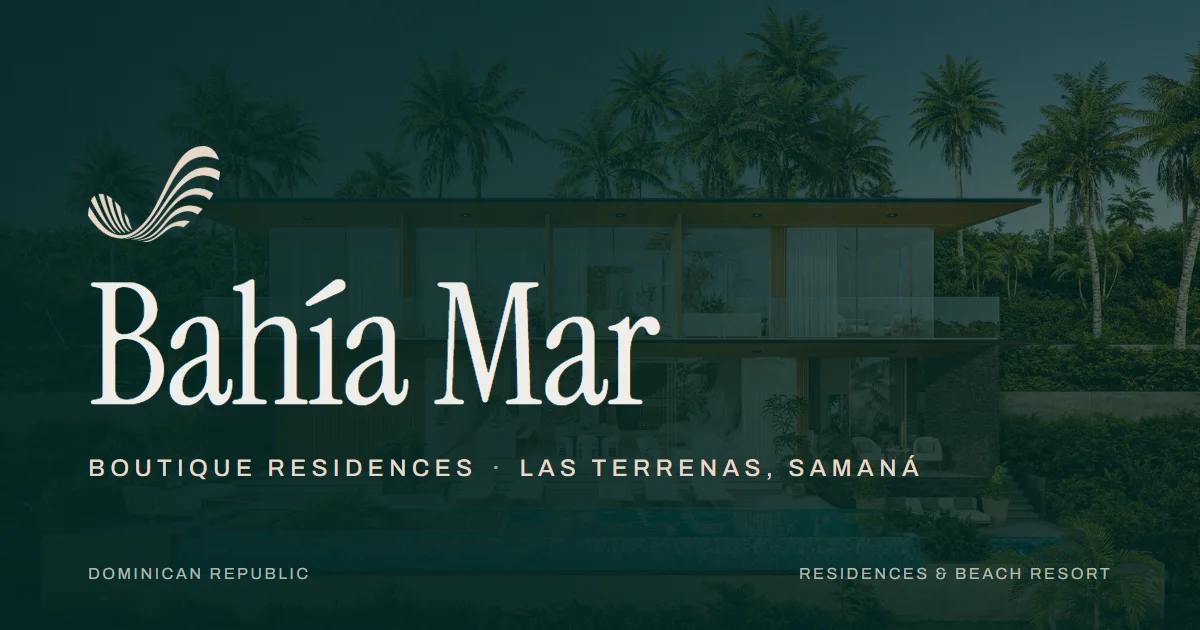
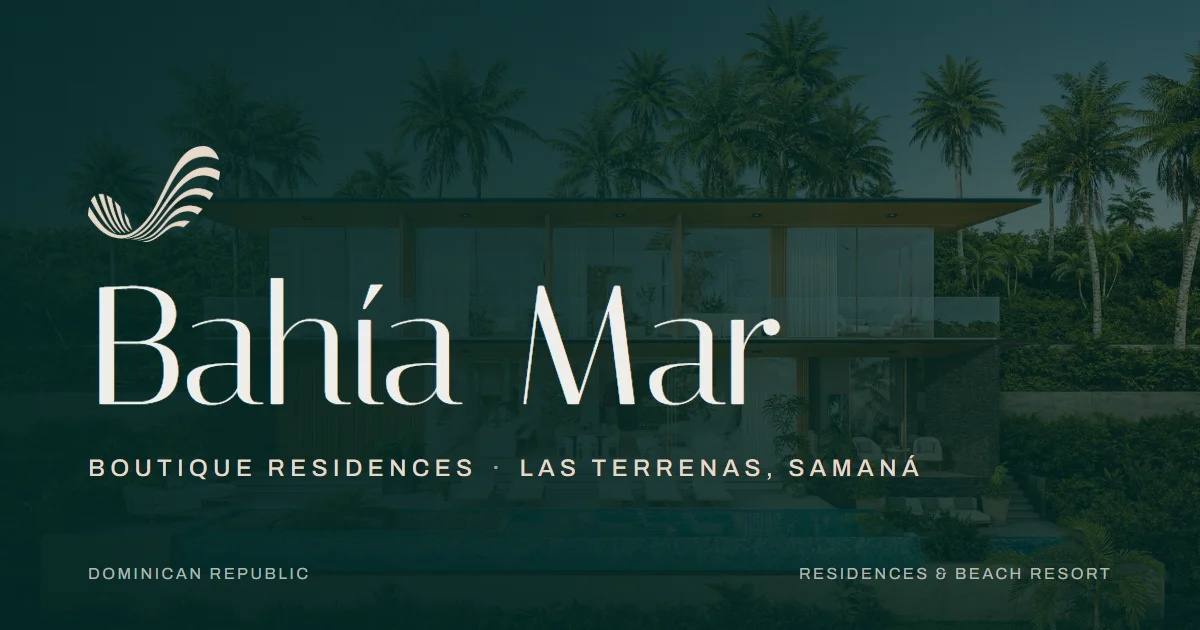
feat(tipografía): Italiana como fuente de titulares, la del brochure
El brochure de Bahía Mar titula con una romana sin serifas, de astas
acampanadas y contraste alto («Verdadero lujo»). Comparadas nueve
libres letra a letra, Italiana comparte las formas (V, a, d, e, r, o y
el gancho de la j); Bellefair lleva remates y el resto son más anchas
y sin contraste. Sustituye a Instrument Serif en app/fonts.ts.

Es un 28 % más ancha que Instrument, así que, medido con
scratchpad/fit-titulares.mjs a 1440 y 390: h1/h2/h3 bajan un 15 % en
bloque (el hero se queda a tamaño completo), pilares a 0,68, «The
Samaná Peninsula» a 0,72 / 76 unidades en móvil, teléfono del pie a
0,74 / 0,58, pestañas de amenidades a 0,94, arco de móvil a 0,76 y
«Similar options» a 0,78. Imagen OpenGraph regenerada con Italiana.

Verificado: tsc limpio; 6 rutas × 2 anchos con 0 errores, 0 4xx, 0
imágenes rotas, 0 desborde; ningún titular parte palabras.

Changed region(s): [[0.0617, 0.4222, 0.6475, 0.6635]]

diff --git a/styles/theme.css b/styles/theme.css
@@ -15,7 +15,9 @@
  *  sustituyen por tres familias con licencia SIL OFL, que se pueden
  *  desplegar en cualquier dominio:
  *
- *    Titulares   Instrument Serif  (sustituye a Ambroise François)
+ *    Titulares   Italiana          (sustituye a Ambroise François; el
+ *                                   brochure de Bahía Mar titula con una
+ *                                   romana acampanada sin serifas)
  *    Texto       Archivo           (sustituye a Maison Neue Extended)
  *    Floritura   Pinyon Script     (sustituye a Sloop Script)
  *
@@ -57,26 +59,69 @@ html {
 /* --------------------------------------------------------
  *  Ajustes por el ancho de la tipografía sustituida
  *
- *  Instrument Serif es ~37% más ancha que Ambroise François,
- *  la didona comprimida del original. Las cajas del CSS
- *  heredado están dimensionadas para aquélla, así que algunos
- *  textos que allí entraban en una línea aquí se parten.
+ *  Las cajas del CSS heredado están dimensionadas para Ambroise
+ *  François, la didona COMPRIMIDA de ERA. Instrument Serif (la
+ *  primera sustituta) era un 37% más ancha y se corrigió caso a
+ *  caso. Italiana, la del brochure de Bahía Mar, es otro 28% más
+ *  ancha que Instrument: con ella ya no eran dos titulares sino
+ *  la mayoría, todos pidiendo entre ×0,75 y ×0,88 (medido con
+ *  scratchpad/fit-titulares.mjs a 1440 y 390), así que h1/h2/h3
+ *  bajan un 15% en bloque y lo que sigue sin caber se ajusta
+ *  donde ocurre. h4/h5 son párrafos-titular que pueden partir y
+ *  no se tocan.
  *
- *  Cada caso se corrige donde ocurre, no con un cambio global
- *  de escala: bajar el h1 en todo el sitio encogería también
- *  el hero, que entra perfectamente.
+ *  El titular del hero se queda a tamaño completo: «BAHÍA MAR»
+ *  entra de sobra y es la pieza grande de la página.
  * -------------------------------------------------------- */
+.h1 { font-size: calc(var(--_fonts---h1--size) * 0.85); }
+.h2 { font-size: calc(var(--_fonts---h2--size) * 0.85); }
+.h3 { font-size: calc(var(--_fonts---h3--size) * 0.85); }
+.hero-s_logo .h1 { font-size: var(--_fonts---h1--size); }
 
 /*
- * Los tres titulares del bloque de pilares («Real-Life Location»,
- * «Built to stay», «Boutique concept») deben ir en UNA línea.
+ * Los tres titulares del bloque de pilares («Facing Samaná Bay», «True
+ * eco-luxury», «A boutique resort») deben ir en UNA línea.
  *
- * Medido: el más largo necesita 1648px en una línea y su caja mide
- * 1429 — hace falta un 0,867 del cuerpo. Se aplica 0,84 para dejar
- * margen si cambian los textos.
+ * Medido con Italiana a 1440: el más largo necesita 1304px al 0,84
+ * anterior y su caja mide 1080 → 0,84 × 0,83 = 0,70. Se aplica 0,68
+ * para dejar margen si cambian los textos. (Con Instrument bastaba 0,84.)
  */
 .section.z-2 .h1 {
-  font-size: calc(var(--_fonts---h1--size) * 0.84);
+  font-size: calc(var(--_fonts---h1--size) * 0.68);
+}
+
+/*
+ * Teléfono del pie («+1 (809) 000-0000», h2): 1035px naturales en una
+ * caja de 806 a 1440 (×0,78) y 578 en 345 a 390 (×0,60). Un número de
+ * teléfono partido en dos líneas no se lee: se baja lo justo.
+ */
+.contact-cms .h2 { font-size: calc(var(--_fonts---h2--size) * 0.74); }
+
+/*
+ * Pestañas de amenidades (Entrance, Beach & pools, Thermal waters…):
+ * lista apilada que sólo cuadra a una línea por etiqueta. «Thermal
+ * waters» mide 267px en 259 (×0,97).
+ */
+.amen-tab .h5 { font-size: calc(var(--_fonts---h5--size) * 0.94); }
+
+/*
+ * «The Samaná Peninsula» (h1 de Location): «PENINSULA» mide 896px en
+ * una caja de 670 a 1440 (×0,75, y ya lleva el 0,85 global: 0,85×0,88).
+ */
+.loc-intro-s_title .h1 { font-size: calc(var(--_fonts---h1--size) * 0.72); }
+
+/*
+ * «Similar options» (arco de la ficha de villa, h3): 552px en una caja
+ * de 533 a 1440 (×0,97); a dos líneas rompe la composición del arco.
+ */
+.other-title-s_title .h3 { font-size: calc(var(--_fonts---h3--size) * 0.78); }
+
+@media screen and (max-width: 991px) {
+  .contact-cms .h2 { font-size: calc(var(--_fonts---h2--size) * 0.58); }
+  /* Arco «Three reasons for Bahía Mar» (texto SVG sobre un semicírculo):
+     con Italiana la frase se salía por los dos lados del arco de móvil
+     (390-home-step-02); a 0,76 vuelve a caber en el cuarto superior. */
+  .benefits-intro-s_title_svg.b-mob .h4 { font-size: calc(var(--_fonts---h4--size) * 0.76); }
 }
 
 /*
@@ -118,7 +163,7 @@ html {
 body {
   --_fonts---font-display:
     var(--font-display),
-    "Bodoni MT", "Didot", "Times New Roman", serif;
+    "Optima", "Candara", "Gill Sans", sans-serif;
 
   --_fonts---font-body:
     var(--font-body),
@@ -305,8 +350,8 @@ body {
  *  de móvil la etiqueta ocupa las columnas 1-3 y el titular las 2-5,
  *  solapados, y con «Dominican Republic» y «Peninsula» ambos se parten
  *  a media palabra (390-home-step-05). La etiqueta pasa a su propia
- *  fila a ancho completo y el titular baja de 96 a 80 unidades, con lo
- *  que «PENINSULA» entra en una línea a 390px.
+ *  fila a ancho completo y el titular baja de 96 a 76 unidades, con lo
+ *  que «PENINSULA» entra en una línea a 390px (medido con Italiana).
  * -------------------------------------------------------- */
 @media screen and (max-width: 767px) {
   .loc-intro-s_cap { grid-area: 1 / 1 / 2 / -1; align-self: start; }
@@ -314,7 +359,7 @@ body {
      390px: se reduce a .5em, con lo que cabe en una línea sin recortarse. */
   .loc-intro-s_cap .c1 { white-space: nowrap; letter-spacing: .5em; }
   .loc-intro-s_title { grid-area: 2 / 1 / 3 / -1; }
-  .loc-intro-s_title .h1 { font-size: calc(80rem / var(--_special-units---scale-ratio)); }
+  .loc-intro-s_title .h1 { font-size: calc(76rem / var(--_special-units---scale-ratio)); } /* Italiana: «PENINSULA» 347px en 345 a 80 unidades */
   /* El resto de la columna baja una fila: foto, texto y botón. */
   .loc-intro-s_img { grid-area: 3 / 2 / 4 / 5; }
   .loc-intro-s_desc { grid-area: 4 / 2 / 5 / 5; }

diff --git a/app/fonts.ts b/app/fonts.ts
@@ -5,7 +5,7 @@
  *  desplegar en cualquier dominio sin pagar licencia web ni contar
  *  pageviews. Sustituyen a las del sitio original:
  *
- *    ambroise-francois-std (Adobe)  ->  Instrument Serif
+ *    ambroise-francois-std (Adobe)  ->  Italiana  (antes Instrument Serif)
  *    Maison Neue Extended (Milieu)  ->  Archivo
  *    sloop-script-three (Adobe)     ->  Pinyon Script
  *
@@ -15,23 +15,22 @@
  *  ajustadas, que es lo que evita el salto de maquetación al cargar.
  * ============================================================ */
 
-import { Archivo, Instrument_Serif, Pinyon_Script } from 'next/font/google';
+import { Archivo, Italiana, Pinyon_Script } from 'next/font/google';
 
 /**
- * Titulares. La elección se hizo midiendo, no a ojo: Ambroise François
- * es el corte COMPRIMIDO de su superfamilia, y casi ninguna didona
- * libre se le acerca. Con el h1 a 192px, "ERA RESIDENCE" ocupaba
- * 749px con la original; en Bodoni Moda se iba a 1499px (el doble) y
- * ya no cabía en el ancho disponible (1344px a 1440 de viewport).
- * Instrument Serif se queda en 1029px, que sí entra en una línea.
+ * Titulares. Bahía Mar no hereda la didona de ERA: el brochure del cliente
+ * titula con una romana sin serifas, de astas acampanadas y contraste alto
+ * («Verdadero lujo», pág. 9). Italiana es la libre que comparte esas formas
+ * (comparada letra a letra con el brochure: V, a, d, e, r, o y el gancho de
+ * la j coinciden; sólo es un punto más fina). Un solo peso y sin cursiva,
+ * que el sitio no usa en los titulares.
  *
- * Estática y de un solo peso, igual que el kit original: Typekit sólo
- * servía `fvd=n4` de Ambroise, así que no perdemos ningún peso.
+ * Es ~28% más ancha que Instrument Serif (la sustituta anterior, comprimida),
+ * así que los ajustes de anchura de styles/theme.css se remidieron con ella.
  */
-export const fontDisplay = Instrument_Serif({
+export const fontDisplay = Italiana({
   subsets: ['latin'],
   weight: '400',
-  style: ['normal', 'italic'],
   display: 'swap',
   variable: '--font-display',
 });

diff --git a/scratchpad/og-template.html b/scratchpad/og-template.html
@@ -9,7 +9,7 @@
   Se renderiza UNA vez con Playwright/Brave (scratchpad/og-render.mjs) y el
   resultado se guarda como public/images/open-graph.webp. Las fuentes se
   cargan de Google sólo para este render: son las mismas familias que el
-  sitio auto-hospeda (Instrument Serif para titulares, Archivo para texto).
+  sitio auto-hospeda (Italiana para titulares, Archivo para texto).
 
   Paleta del brief: verde profundo #022725, claro #EFEEE9, arena #E8D8C8.
   Fondo: render diurno de la villa (bahiamar-hero-day) bajo un velo verde.
@@ -21,7 +21,7 @@
 -->
 <link rel="preconnect" href="https://fonts.googleapis.com">
 <link rel="preconnect" href="https://fonts.gstatic.com" crossorigin>
-<link href="https://fonts.googleapis.com/css2?family=Archivo:wght@400;500&family=Instrument+Serif:ital@0;1&display=block" rel="stylesheet">
+<link href="https://fonts.googleapis.com/css2?family=Archivo:wght@400;500&family=Italiana&display=block" rel="stylesheet">
 <style>
   html, body {
     margin: 0;
@@ -80,7 +80,7 @@
   }
 
   .card__title {
-    font-family: "Instrument Serif", "Times New Roman", Georgia, serif;
+    font-family: "Italiana", "Optima", "Candara", sans-serif;
     font-weight: 400;
     font-size: 168px;
     line-height: 0.9;

diff --git a/BACKLOG.md b/BACKLOG.md
@@ -56,6 +56,18 @@ que no pueda pasar por real.
   para tener el 42 % de cielo de la foto de ERA: así al cargar sólo hay cielo
   detrás del titular y la villa aparece al hacer scroll. `bahiamar-hero-day`
   y `-night` ya no se usan.
+- **Tipografía de titulares: Italiana.** El brochure titula con una romana
+  sin serifas, de astas acampanadas y contraste alto («Verdadero lujo»,
+  p. 9); no hay ficheros de fuente ni manual en el material del cliente, así
+  que se comparó letra a letra con las libres de Google Fonts: Italiana
+  coincide en formas (Bellefair lleva remates; Belleza, Tenor Sans y
+  Marcellus son más anchas y sin contraste). Es un 28 % más ancha que
+  Instrument Serif, así que h1/h2/h3 bajan un 15 % en bloque y hay ajustes
+  medidos para pilares, «Peninsula», teléfono del pie, pestañas de
+  amenidades, arco de móvil y «Similar options» (`styles/theme.css`,
+  `scratchpad/fit-titulares.mjs`). Los titulares siguen en MAYÚSCULAS como
+  en ERA; el brochure los pone en caja baja («Verdadero lujo») — si se
+  prefiere así, es quitar `text-transform` en theme.css y remedir.
 - **Nombre en el pie.** Conviven «Bahía Mar.» (línea de copyright) y «Bahía
   Mar Residences & Beach Resort» (crédito). Decisión: nombre legal en el
   crédito, marca corta en el resto.
